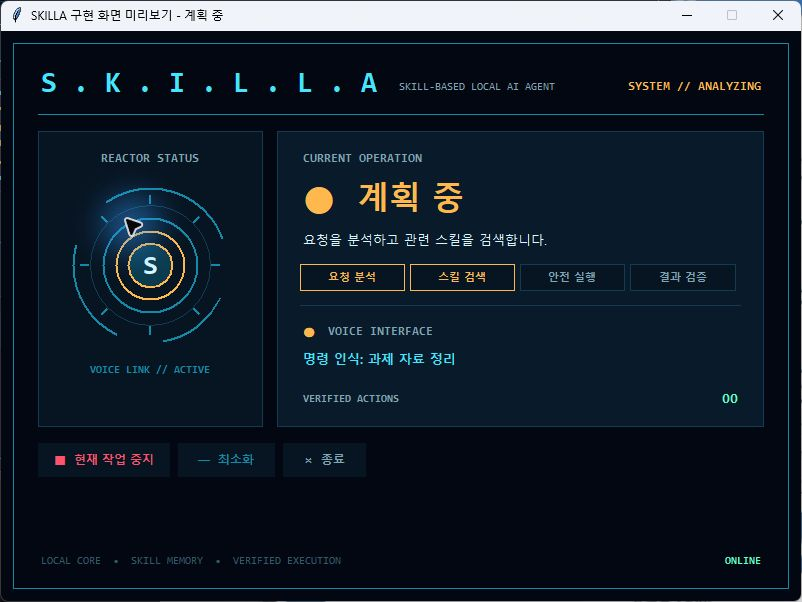
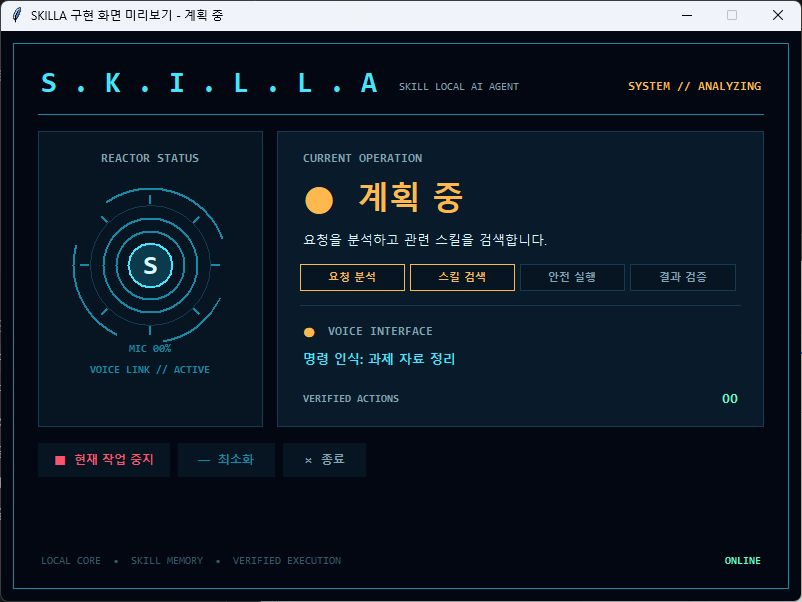
test: finalize SKILLA identity and voice evidence

diff --git a/tools/run_folder_inventory_skill_study_pilot.py b/tools/run_folder_inventory_skill_study_pilot.py
@@ -147,7 +147,7 @@ class FolderInventoryConditionRunner:
         self._tool_surface_sha256 = _canonical_sha256(
             [item.model_dump(mode="json") for item in self._registry.list()]
         )
-        with tempfile.TemporaryDirectory(prefix="javis-inventory-state-") as raw:
+        with tempfile.TemporaryDirectory(prefix="skilla-inventory-state-") as raw:
             root = Path(raw)
             _write_fixture(root)
             hashes = _fixture_hashes(root)
@@ -165,7 +165,7 @@ class FolderInventoryConditionRunner:
             timeout_seconds=60,
             max_tokens=1_000,
         )
-        with tempfile.TemporaryDirectory(prefix="javis-inventory-study-") as raw:
+        with tempfile.TemporaryDirectory(prefix="skilla-inventory-study-") as raw:
             root = Path(raw).resolve(strict=True)
             _write_fixture(root)
             before = _fixture_hashes(root)
@@ -193,7 +193,7 @@ class FolderInventoryConditionRunner:
                     ),
                     audit=InMemoryAuditSink(),
                     approvals=ApprovalTokenService(
-                        b"javis-inventory-study-approval-key-0001"
+                        b"skilla-inventory-study-approval-key-0001"
                     ),
                     verified_result_observer=observer,
                 ).run(plan, _policy_context)

diff --git a/tools/run_pdf_open_skill_study_pilot.py b/tools/run_pdf_open_skill_study_pilot.py
@@ -172,7 +172,7 @@ class PdfOpenConditionRunner:
         self._tool_surface_sha256 = _canonical_sha256(
             [item.model_dump(mode="json") for item in self._registry.list()]
         )
-        with tempfile.TemporaryDirectory(prefix="javis-pdf-state-") as raw:
+        with tempfile.TemporaryDirectory(prefix="skilla-pdf-state-") as raw:
             fixture = Path(raw) / PDF_NAME
             _write_minimal_pdf(fixture)
             digest = _file_sha256(fixture)
@@ -189,7 +189,7 @@ class PdfOpenConditionRunner:
         metrics = None
         evidence_plan: dict[str, object] = {"accepted": False}
         with tempfile.TemporaryDirectory(
-            prefix="javis-pdf-skill-study-",
+            prefix="skilla-pdf-skill-study-",
             ignore_cleanup_errors=True,
         ) as raw_root:
             root = Path(raw_root).resolve(strict=True)
@@ -232,7 +232,7 @@ class PdfOpenConditionRunner:
                     ),
                     audit=InMemoryAuditSink(),
                     approvals=ApprovalTokenService(
-                        b"javis-pdf-study-approval-key-0001"
+                        b"skilla-pdf-study-approval-key-0001"
                     ),
                 ).run(plan, _policy_context)
                 verified = outcome.status is ActionStatus.SUCCEEDED

diff --git a/tools/run_extension_sort_skill_study_pilot.py b/tools/run_extension_sort_skill_study_pilot.py
@@ -217,7 +217,7 @@ class ExtensionSortConditionRunner:
         self._tool_surface_sha256 = _canonical_sha256(
             [item.model_dump(mode="json") for item in self._registry.list()]
         )
-        with tempfile.TemporaryDirectory(prefix="javis-extension-state-") as raw:
+        with tempfile.TemporaryDirectory(prefix="skilla-extension-state-") as raw:
             root = Path(raw)
             _write_fixture(root)
             state = _relative_state(root)
@@ -239,7 +239,7 @@ class ExtensionSortConditionRunner:
             timeout_seconds=60,
             max_tokens=1_800,
         )
-        with tempfile.TemporaryDirectory(prefix="javis-extension-study-") as raw:
+        with tempfile.TemporaryDirectory(prefix="skilla-extension-study-") as raw:
             root = Path(raw).resolve(strict=True)
             _write_fixture(root)
             initial_state = _relative_state(root)
@@ -262,7 +262,7 @@ class ExtensionSortConditionRunner:
                 )
                 approval = ExactExtensionSortApproval(root)
                 tokens = ApprovalTokenService(
-                    b"javis-extension-study-approval-key-0001"
+                    b"skilla-extension-study-approval-key-0001"
                 )
 
                 def orchestrator_factory(

diff --git a/tests/test_benchmark_b0_runner.py b/tests/test_benchmark_b0_runner.py
@@ -28,7 +28,7 @@ def test_direct_b0_runner_collects_only_mock_isolated_cells(tmp_path: Path) -> N
         scenarios,
         (tmp_path / "collection").resolve(),
         repetitions_per_condition=1,
-        evaluator_id="javis-b0-mock",
+        evaluator_id="skilla-b0-mock",
         evaluator_version="1.0.0",
         runners={(StudyCondition.B0, ScenarioEnvironment.MOCK_ONLY): runner},
         environment_available={
@@ -108,7 +108,7 @@ def test_direct_b0_runner_rejects_non_b0_and_non_mock_cells(tmp_path: Path) -> N
         scenarios,
         (tmp_path / "collection").resolve(),
         repetitions_per_condition=1,
-        evaluator_id="javis-b0-mock",
+        evaluator_id="skilla-b0-mock",
         evaluator_version="1.0.0",
         runners={(StudyCondition.B0, ScenarioEnvironment.MOCK_ONLY): runner},
         environment_available={environment: True for environment in ScenarioEnvironment},

diff --git a/tools/run_skill_study_pilot.py b/tools/run_skill_study_pilot.py
@@ -187,7 +187,7 @@ class FileSortConditionRunner:
         loop_status = "ERROR"
         rounds = 0
         journal_states: list[str] = []
-        with tempfile.TemporaryDirectory(prefix="javis-skill-study-") as raw_root:
+        with tempfile.TemporaryDirectory(prefix="skilla-skill-study-") as raw_root:
             root = Path(raw_root).resolve(strict=True)
             (root / "math").mkdir()
             (root / "english").mkdir()
@@ -217,7 +217,7 @@ class FileSortConditionRunner:
                     }
                 )
                 approval = CountingSandboxApproval(root)
-                tokens = ApprovalTokenService(b"javis-skill-study-approval-key-0001")
+                tokens = ApprovalTokenService(b"skilla-skill-study-approval-key-0001")
 
                 def orchestrator_factory(
                     observer: InMemoryVerifiedResultObserver,

diff --git a/tools/run_skill_revision_candidate_pilot.py b/tools/run_skill_revision_candidate_pilot.py
@@ -147,7 +147,7 @@ class FileSortRevisionRunner:
             timeout_seconds=60,
             max_tokens=1_800,
         )
-        with tempfile.TemporaryDirectory(prefix="javis-revision-study-") as raw_root:
+        with tempfile.TemporaryDirectory(prefix="skilla-revision-study-") as raw_root:
             root = Path(raw_root).resolve(strict=True)
             (root / "math").mkdir()
             (root / "english").mkdir()
@@ -171,7 +171,7 @@ class FileSortRevisionRunner:
                     }
                 )
                 approval = CountingApproval(root)
-                tokens = ApprovalTokenService(b"javis-revision-pilot-key-material-01")
+                tokens = ApprovalTokenService(b"skilla-revision-pilot-key-material-01")
 
                 def orchestrator_factory(
                     observer: InMemoryVerifiedResultObserver,

diff --git a/tests/test_wakeword_corpus_capture.py b/tests/test_wakeword_corpus_capture.py
@@ -49,7 +49,7 @@ class TtyInput(io.StringIO):
 
 def plan() -> WakeWordCapturePlan:
     return WakeWordCapturePlan(
-        corpus_id="ko-jarvis-smoke",
+        corpus_id="ko-skilla-smoke",
         duration_ms=1_600,
         samples=(
             WakeWordCaptureSample(sample_id="positive-01", target_present=True),
@@ -359,12 +359,12 @@ def test_console_readiness_displays_fixed_korean_capture_condition(
     [
         (
             Path("evaluation/wakeword_capture_plan.calibration.json"),
-            "ko-jarvis-local-calibration-01",
+            "ko-skilla-local-calibration-01",
             10,
         ),
         (
             Path("evaluation/wakeword_capture_plan.final-test.json"),
-            "ko-jarvis-local-final-01",
+            "ko-skilla-local-final-01",
             20,
         ),
     ],

diff --git a/tests/test_cli.py b/tests/test_cli.py
@@ -1094,7 +1094,7 @@ def test_evaluate_repcnn_wakeword_corpus_requires_pinned_local_model(
             "evaluate-repcnn-wakeword-corpus",
             "C:/corpus/manifest.json",
             "C:/corpus",
-            "C:/models/jarvis.onnx",
+            "C:/models/skilla.onnx",
             digest,
             "--threshold",
             "0.72",
@@ -1104,7 +1104,7 @@ def test_evaluate_repcnn_wakeword_corpus_requires_pinned_local_model(
     assert result == 0
     assert json.loads(capsys.readouterr().out) == {"false_rejection_rate": 0.0}
     assert observed == {
-        "model_path": Path("C:/models/jarvis.onnx"),
+        "model_path": Path("C:/models/skilla.onnx"),
         "model_sha256": digest,
         "manifest": manifest,
         "root": Path("C:/corpus"),

diff --git a/tools/run_safe_file_sort_pilot.py b/tools/run_safe_file_sort_pilot.py
@@ -154,7 +154,7 @@ def _fail(report: dict[str, object], error: Exception) -> NoReturn:
 
 
 def main() -> int:
-    root = Path(tempfile.mkdtemp(prefix="javis-file-sort-pilot-")).resolve(strict=True)
+    root = Path(tempfile.mkdtemp(prefix="skilla-file-sort-pilot-")).resolve(strict=True)
     (root / "math").mkdir()
     (root / "english").mkdir()
     (root / "math_week1.txt").write_text("algebra", encoding="utf-8")
@@ -189,7 +189,7 @@ def main() -> int:
             }
         )
         audit = InMemoryAuditSink()
-        tokens = ApprovalTokenService(b"javis-safe-pilot-approval-key-0001")
+        tokens = ApprovalTokenService(b"skilla-safe-pilot-approval-key-0001")
         broker = SandboxYellowApproval(root)
 
         def orchestrator_factory(

diff --git a/tests/test_benchmark_collection.py b/tests/test_benchmark_collection.py
@@ -147,7 +147,7 @@ def collector(
         SCENARIOS,
         root.resolve(),
         repetitions_per_condition=1,
-        evaluator_id="javis-evaluator",
+        evaluator_id="skilla-evaluator",
         evaluator_version="1.0.0",
         runners=runners or {},
         environment_available=environments or availability(),
@@ -222,7 +222,7 @@ def test_equal_resolution_wall_clock_uses_monotonic_elapsed_time(
         SCENARIOS,
         root,
         repetitions_per_condition=1,
-        evaluator_id="javis-evaluator",
+        evaluator_id="skilla-evaluator",
         evaluator_version="1.0.0",
         runners=runner_mapping(PassingRunner()),
         environment_available=availability(),

diff --git a/tests/test_benchmark_nonverifying_memory_pdf_runner.py b/tests/test_benchmark_nonverifying_memory_pdf_runner.py
@@ -124,7 +124,7 @@ def test_b1_and_p1_s03_execute_once_evaluate_externally_and_cleanup(tmp_path: Pa
         scenarios,
         (tmp_path / "collection").resolve(),
         repetitions_per_condition=1,
-        evaluator_id="javis-nonverifying-memory-pdf",
+        evaluator_id="skilla-nonverifying-memory-pdf",
         evaluator_version="1.0.0",
         runners={
             (StudyCondition.B1, ScenarioEnvironment.HOST_FIXTURE_SANDBOX): runner,

diff --git a/tests/test_benchmark_nonverifying_fixture_runner.py b/tests/test_benchmark_nonverifying_fixture_runner.py
@@ -22,7 +22,7 @@ def test_b1_and_p1_s04_use_one_task_confirmation_without_verifier(tmp_path: Path
         scenarios,
         (tmp_path / "collection").resolve(),
         repetitions_per_condition=1,
-        evaluator_id="javis-nonverifying-fixture",
+        evaluator_id="skilla-nonverifying-fixture",
         evaluator_version="1.0.0",
         runners={
             (StudyCondition.B1, ScenarioEnvironment.HOST_FIXTURE_SANDBOX): runner,
